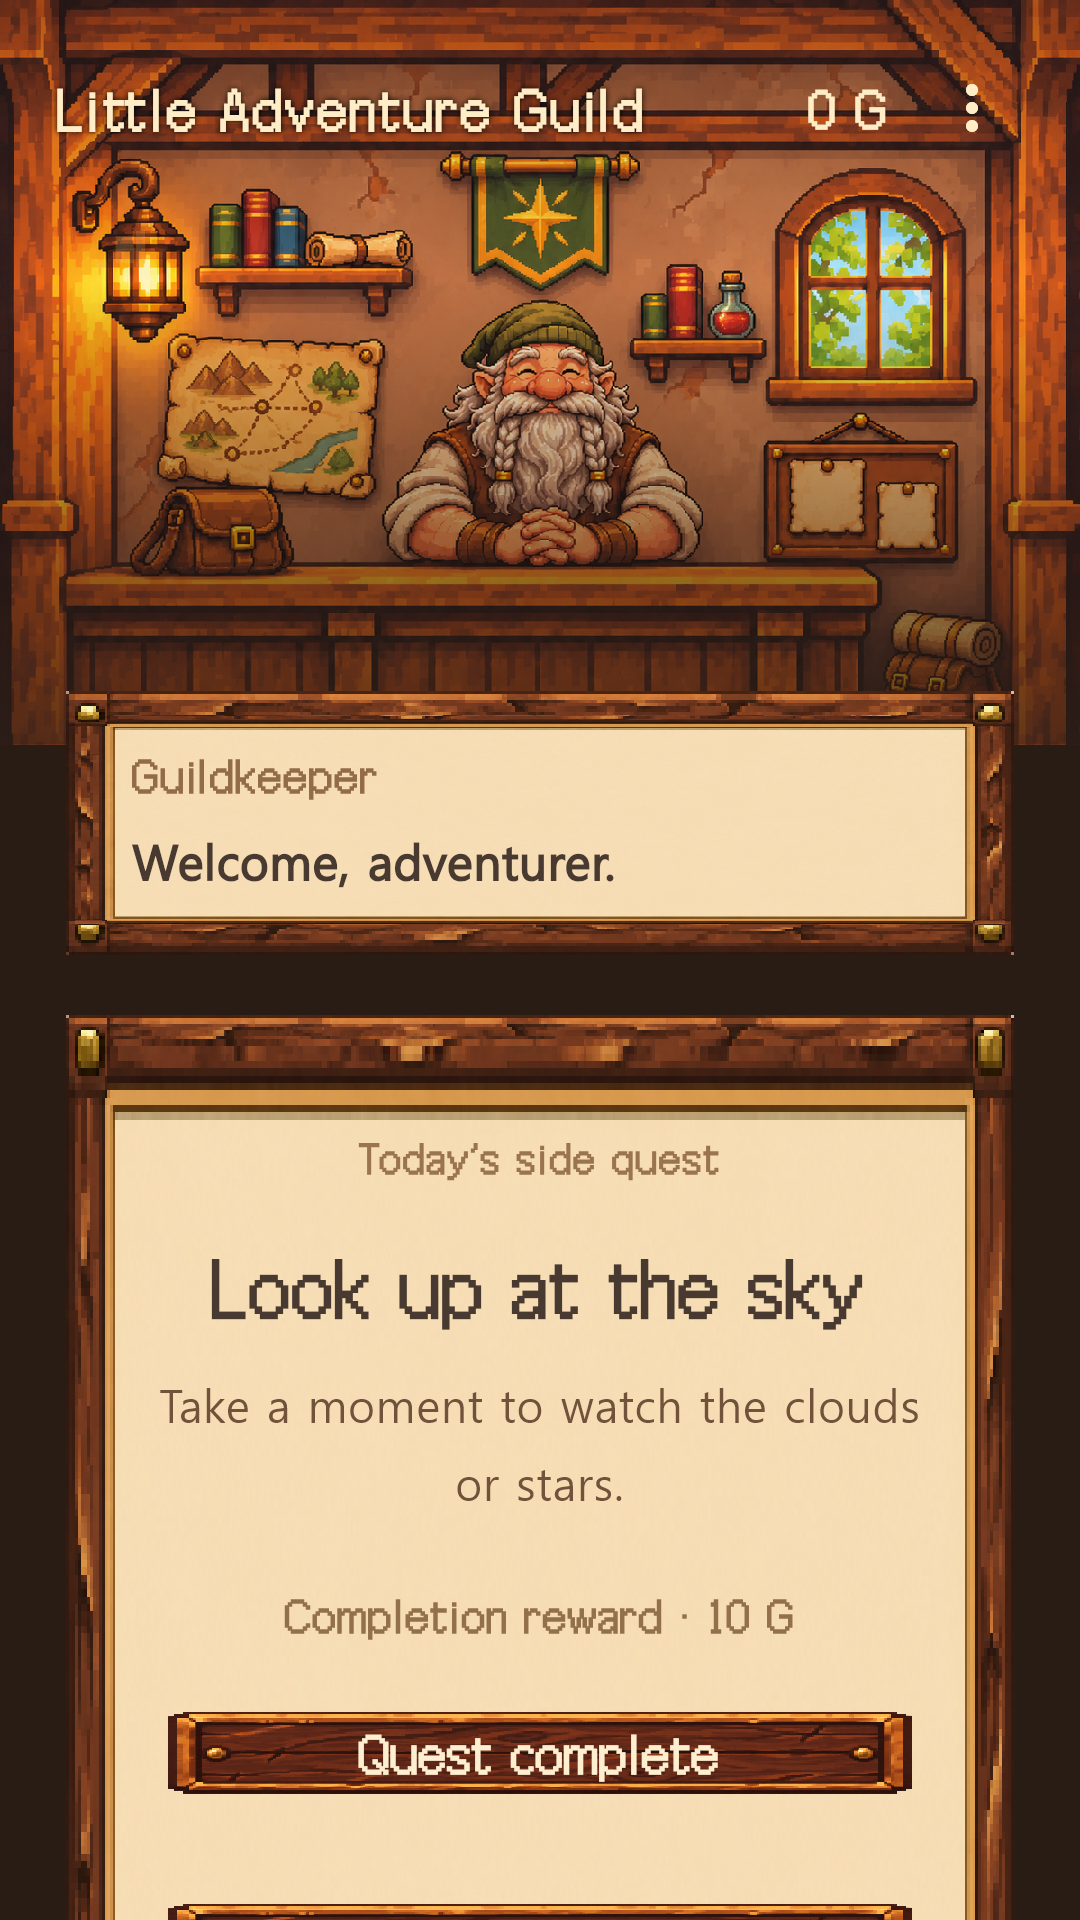
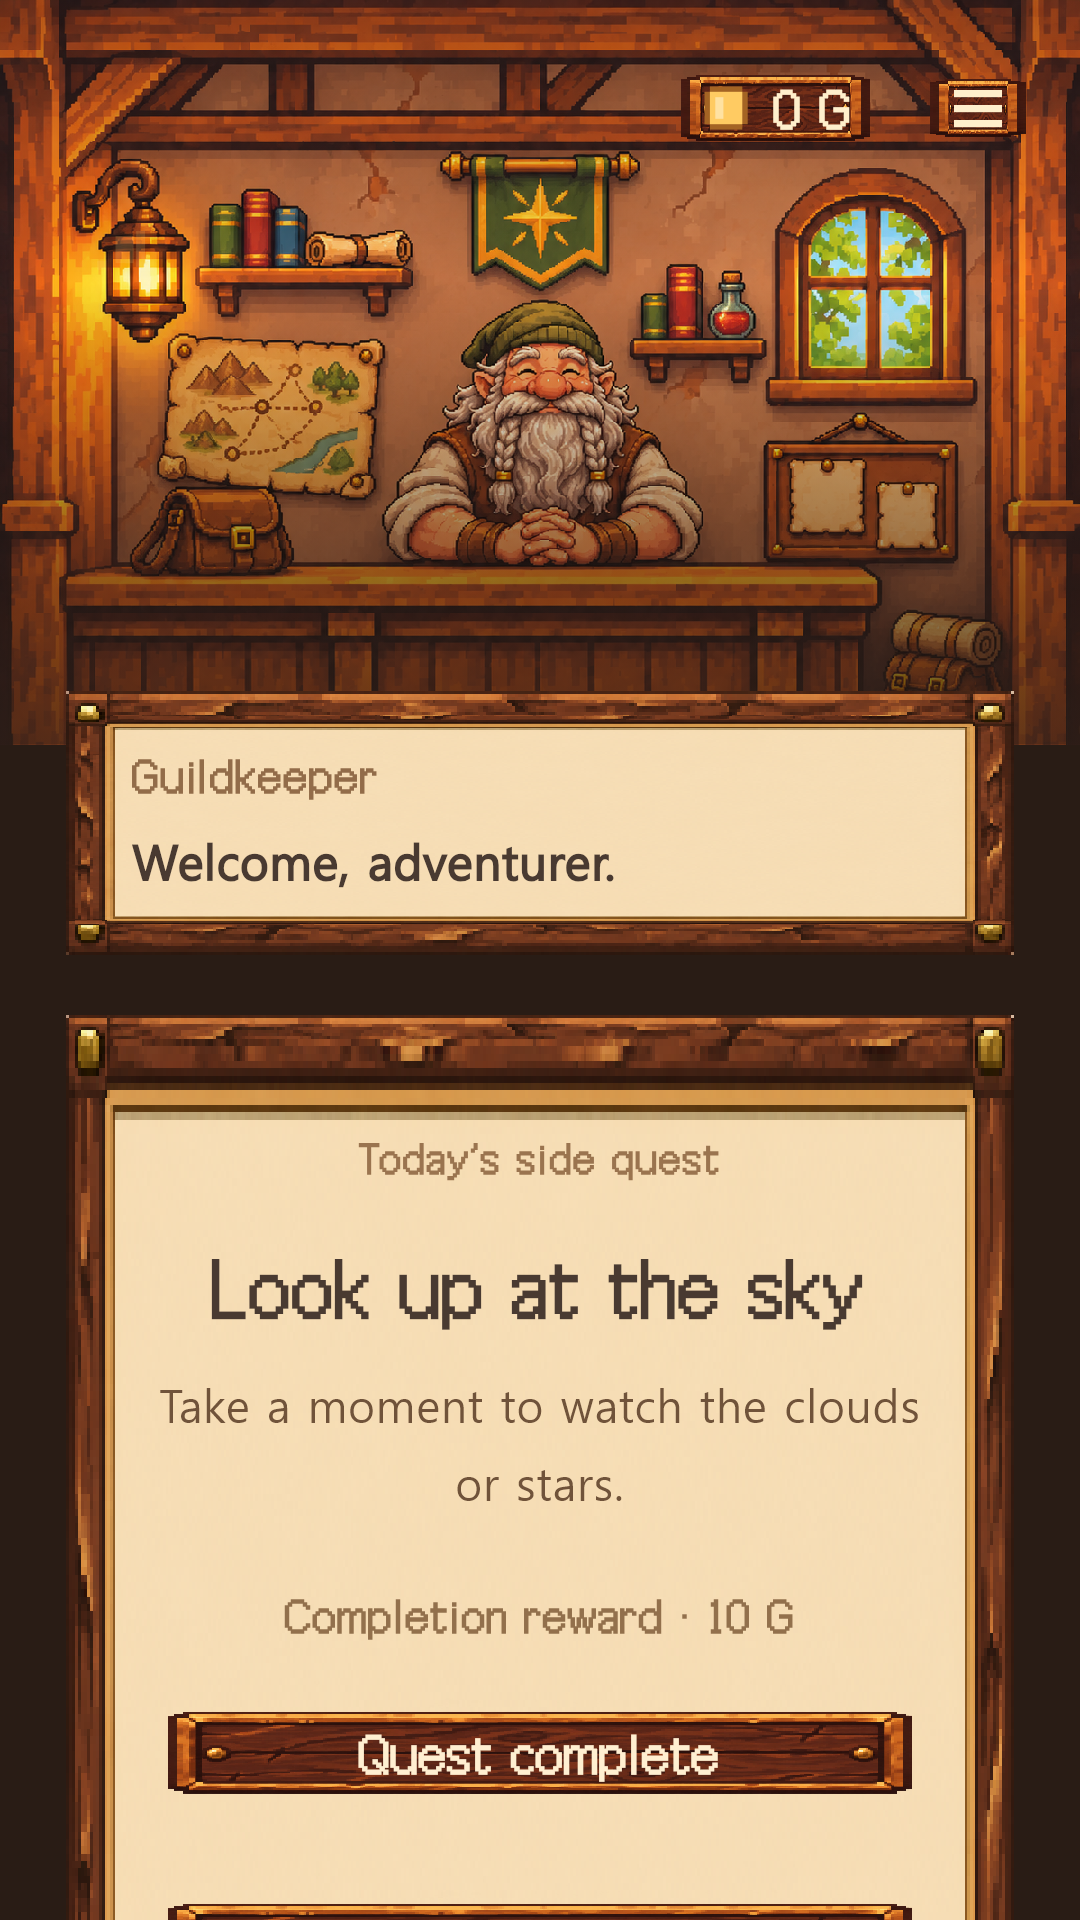
Match gold and menu controls to guild artwork

Changed region(s): [[0.0306, 0.0312, 0.825, 0.0938], [0.8556, 0.0312, 0.9472, 0.0938]]

diff --git a/lib/main.dart b/lib/main.dart
@@ -510,51 +510,71 @@ class _GuildHomeState extends State<GuildHome> with WidgetsBindingObserver {
                 left: 19,
                 right: 12,
                 child: Row(children: [
-                  Expanded(
-                      child: Text(t('작은 모험 길드'),
-                          style: TextStyle(
-                              color: Color(0xffffedc7),
-                              fontSize: 15,
-                              fontWeight: FontWeight.w800,
-                              letterSpacing: .8,
-                              shadows: [
-                                Shadow(blurRadius: 5, color: Colors.black)
-                              ]))),
-                  Padding(
-                      padding: const EdgeInsets.only(right: 4),
-                      child: Text("${today?['gold'] ?? 0} G",
-                          style: const TextStyle(
-                              color: Color(0xffffedc7),
-                              fontWeight: FontWeight.bold))),
+                  const Spacer(),
+                  Tooltip(
+                    message: t('보유 골드'),
+                    child: DecoratedBox(
+                      decoration: headerWoodDecoration,
+                      child: TextButton(
+                        onPressed: today == null ? null : showDecorations,
+                        style: TextButton.styleFrom(
+                          foregroundColor: const Color(0xffffefcc),
+                          disabledForegroundColor: const Color(0xffc2ab86),
+                          shape: const RoundedRectangleBorder(),
+                          minimumSize: const Size(48, 44),
+                          padding: const EdgeInsets.symmetric(horizontal: 12),
+                        ),
+                        child: Row(mainAxisSize: MainAxisSize.min, children: [
+                          const SizedBox(
+                              width: 18,
+                              height: 18,
+                              child: CustomPaint(
+                                  painter: HeaderIconPainter(coin: true))),
+                          const SizedBox(width: 7),
+                          Text("${today?['gold'] ?? 0} G",
+                              style: const TextStyle(
+                                  fontSize: 14, fontWeight: FontWeight.w800)),
+                        ]),
+                      ),
+                    ),
+                  ),
+                  const SizedBox(width: 8),
                   PopupMenuButton<String>(
-                      tooltip: t('길드 메뉴'),
-                      color: cream,
-                      iconColor: const Color(0xffffedc7),
-                      shape: const RoundedRectangleBorder(),
-                      onSelected: (v) {
-                        if (v == 'settings') {
-                          showLanguageSettings();
-                        } else if (v == 'licenses') {
-                          showLicensePage(
-                              context: context, applicationName: t('작은 모험 길드'));
-                        } else if (v == 'decorate') {
-                          showDecorations();
-                        } else {
-                          showInfo(v == 'support');
-                        }
-                      },
-                      itemBuilder: (_) => [
-                            PopupMenuItem(
-                                value: 'settings', child: Text(t('설정'))),
-                            PopupMenuItem(
-                                value: 'licenses', child: Text(t('오픈소스 라이선스'))),
-                            PopupMenuItem(
-                                value: 'decorate', child: Text(t('길드 꾸미기'))),
-                            PopupMenuItem(
-                                value: 'support', child: Text(t('길드 지원하기'))),
-                            PopupMenuItem(
-                                value: 'suggest', child: Text(t('의뢰 제안하기'))),
-                          ]),
+                    tooltip: t('길드 메뉴'),
+                    color: cream,
+                    iconColor: const Color(0xffffedc7),
+                    shape: const RoundedRectangleBorder(),
+                    onSelected: (v) {
+                      if (v == 'settings') {
+                        showLanguageSettings();
+                      } else if (v == 'licenses') {
+                        showLicensePage(
+                            context: context, applicationName: t('작은 모험 길드'));
+                      } else if (v == 'decorate') {
+                        showDecorations();
+                      } else {
+                        showInfo(v == 'support');
+                      }
+                    },
+                    itemBuilder: (_) => [
+                      PopupMenuItem(value: 'settings', child: Text(t('설정'))),
+                      PopupMenuItem(
+                          value: 'licenses', child: Text(t('오픈소스 라이선스'))),
+                      PopupMenuItem(
+                          value: 'decorate', child: Text(t('길드 꾸미기'))),
+                      PopupMenuItem(
+                          value: 'support', child: Text(t('길드 지원하기'))),
+                      PopupMenuItem(
+                          value: 'suggest', child: Text(t('의뢰 제안하기'))),
+                    ],
+                    child: Container(
+                      width: 44,
+                      height: 44,
+                      decoration: headerWoodDecoration,
+                      padding: const EdgeInsets.all(12),
+                      child: const CustomPaint(painter: HeaderIconPainter()),
+                    ),
+                  ),
                 ])),
           ]),
           Transform.translate(
@@ -835,6 +855,47 @@ class LanternGlowPainter extends CustomPainter {
   @override
   bool shouldRepaint(covariant LanternGlowPainter oldDelegate) =>
       oldDelegate.frame != frame;
+}
+
+const headerWoodDecoration = BoxDecoration(
+  image: DecorationImage(
+    image: ResizeImage(AssetImage('assets/wood_button.png'),
+        width: 432, height: 144),
+    centerSlice: Rect.fromLTRB(12, 8, 420, 136),
+    fit: BoxFit.fill,
+    filterQuality: FilterQuality.none,
+  ),
+);
+
+class HeaderIconPainter extends CustomPainter {
+  final bool coin;
+  const HeaderIconPainter({this.coin = false});
+  @override
+  void paint(Canvas canvas, Size size) {
+    final paint = Paint();
+    void box(double x, double y, double w, double h, Color color) {
+      paint.color = color;
+      canvas.drawRect(
+          Rect.fromLTWH(
+              size.width * x, size.height * y, size.width * w, size.height * h),
+          paint);
+    }
+
+    if (coin) {
+      box(.2, .1, .6, .8, const Color(0xffa46424));
+      box(.1, .2, .8, .6, const Color(0xffa46424));
+      box(.2, .2, .6, .6, const Color(0xffffcb62));
+      box(.3, .3, .15, .4, const Color(0xffffe2a2));
+    } else {
+      for (final y in [.2, .45, .7]) {
+        box(.1, y, .8, .12, const Color(0xffffefcc));
+      }
+    }
+  }
+
+  @override
+  bool shouldRepaint(covariant HeaderIconPainter oldDelegate) =>
+      oldDelegate.coin != coin;
 }
 
 class PixelPanel extends StatelessWidget {

diff --git a/test/widget_test.dart b/test/widget_test.dart
@@ -143,7 +143,7 @@ void main() {
     SharedPreferences.setMockInitialValues({'tutorial_complete': true});
     await tester.pumpWidget(const GuildApp());
     await tester.pumpAndSettle();
-    expect(find.text('Little Adventure Guild'), findsOneWidget);
+    expect(find.text('Welcome, adventurer.'), findsOneWidget);
     expect(find.text('Welcome, adventurer.'), findsOneWidget);
   });
   testWidgets('언어를 바꾸면 저장되고 기기 설정으로 되돌릴 수 있다', (tester) async {
@@ -152,28 +152,28 @@ void main() {
     SharedPreferences.setMockInitialValues({'tutorial_complete': true});
     await tester.pumpWidget(const GuildApp());
     await tester.pumpAndSettle();
-    expect(find.text('작은 모험 길드'), findsOneWidget);
+    expect(find.text('왔구나, 모험가!'), findsOneWidget);
     await tester.tap(find.byTooltip('길드 메뉴'));
     await tester.pumpAndSettle();
     await tester.tap(find.text('설정'));
     await tester.pumpAndSettle();
     await tester.tap(find.text('日本語'));
     await tester.pumpAndSettle();
-    expect(find.text('小さな冒険ギルド'), findsOneWidget);
+    expect(find.text('ようこそ、冒険者！'), findsOneWidget);
     expect(
-        Localizations.localeOf(tester.element(find.text('小さな冒険ギルド')))
+        Localizations.localeOf(tester.element(find.text('ようこそ、冒険者！')))
             .languageCode,
         'ja');
     await tester.pumpWidget(const GuildApp(key: ValueKey('language restart')));
     await tester.pumpAndSettle();
-    expect(find.text('小さな冒険ギルド'), findsOneWidget);
+    expect(find.text('ようこそ、冒険者！'), findsOneWidget);
     await tester.tap(find.byTooltip('ギルドメニュー'));
     await tester.pumpAndSettle();
     await tester.tap(find.text('設定'));
     await tester.pumpAndSettle();
     await tester.tap(find.text('端末の設定に従う'));
     await tester.pumpAndSettle();
-    expect(find.text('작은 모험 길드'), findsOneWidget);
+    expect(find.text('왔구나, 모험가!'), findsOneWidget);
   });
   testWidgets('기기 언어 목록이 비어 있으면 영어를 사용한다', (tester) async {
     tester.binding.platformDispatcher.localesTestValue = [];
@@ -183,7 +183,7 @@ void main() {
     SharedPreferences.setMockInitialValues({'tutorial_complete': true});
     await tester.pumpWidget(const GuildApp());
     await tester.pumpAndSettle();
-    expect(find.text('Little Adventure Guild'), findsOneWidget);
+    expect(find.text('Welcome, adventurer.'), findsOneWidget);
   });
   test('인사와 튜토리얼 및 예시 퀘스트에 영어·일본어 번역이 있다', () {
     final content = [
@@ -197,5 +197,15 @@ void main() {
             reason: '$language: $source');
       }
     }
+  });
+  testWidgets('골드 버튼으로 길드 꾸미기를 연다', (tester) async {
+    SharedPreferences.setMockInitialValues(
+        {'tutorial_complete': true, 'language_override': 'ko'});
+    await tester.pumpWidget(const GuildApp());
+    await tester.pumpAndSettle();
+    expect(find.text('작은 모험 길드'), findsNothing);
+    await tester.tap(find.byTooltip('보유 골드'));
+    await tester.pumpAndSettle();
+    expect(find.text('길드 꾸미기'), findsOneWidget);
   });
 }
